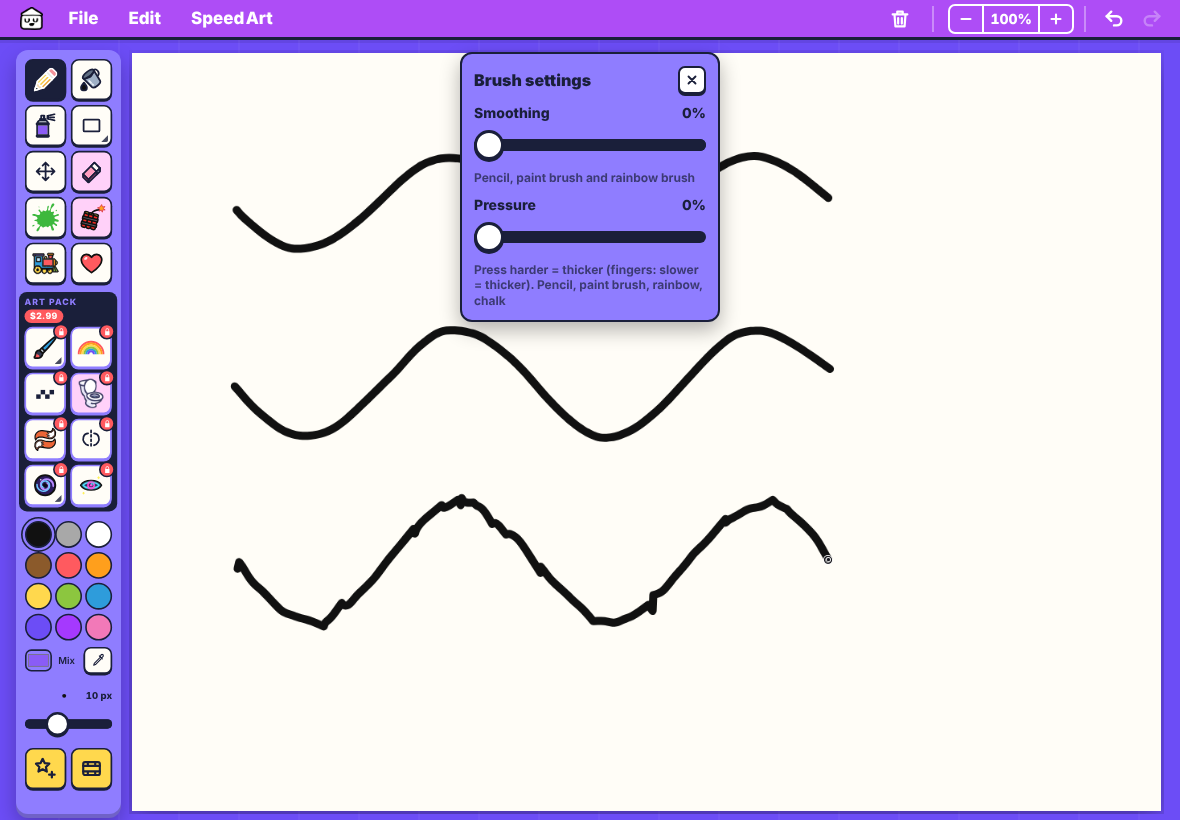
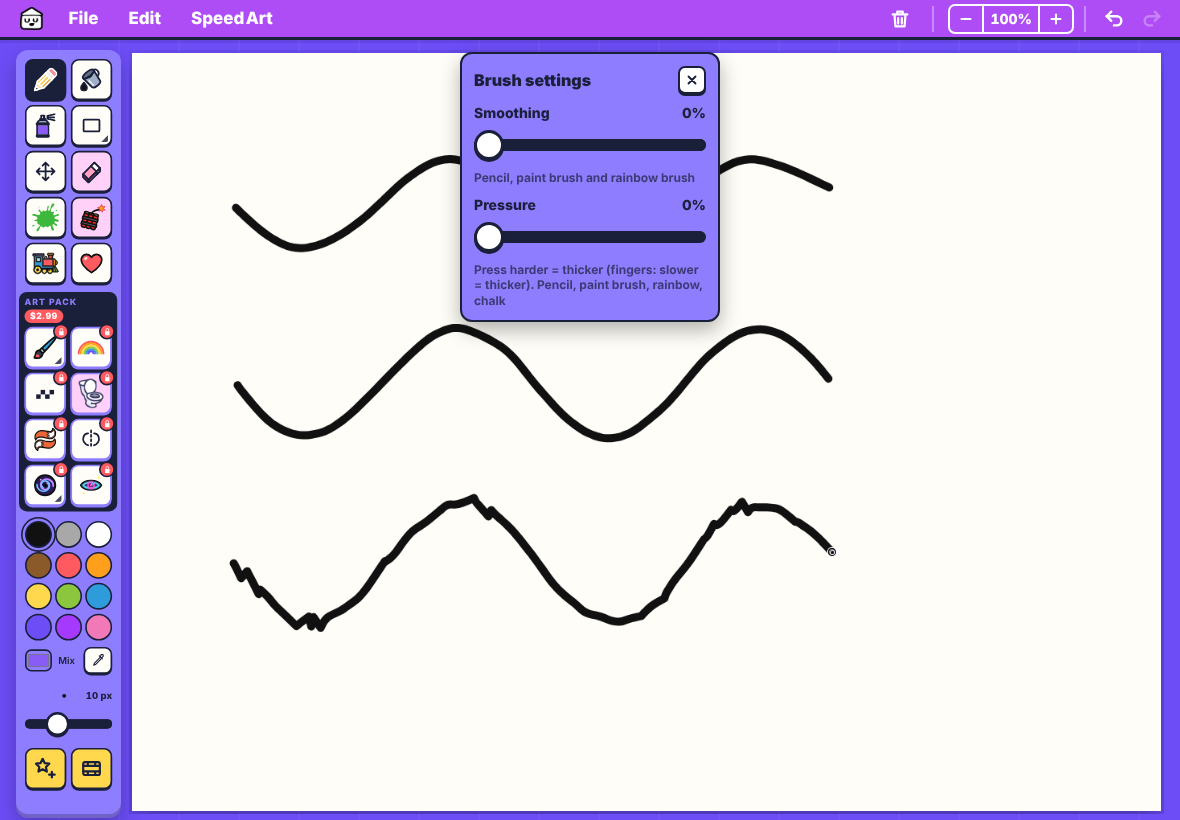
Paint brush: no lag on big brushes (settled part of the stroke is drawn once, only the tip redrawn)
Claude-Session: https://claude.ai/code/session_01QZ4DRegBmAdsTvPSvVEQXu

diff --git a/doodle-clubhouse-app/www/index.html b/doodle-clubhouse-app/www/index.html
@@ -4006,59 +4006,58 @@
   }
   const texK = [null, null, null];
   function brushTexDraw(g, pts, w, rb, ang, sc){
+    const D = brushDense(pts), n = D.length;
+    if (n < 2){ g.save(); g.lineCap = 'round'; pencilDraw(g, pts, w * .7, rb); g.restore(); return; }
+    brushNormals(D, w);
+    brushRange(g, D, 0, n - 1, w, ang, sc);
+  }
+  // draw the part of a paint brush stroke between points a and b of its centre line (so a long stroke can be drawn
+  // a piece at a time while you paint, and only the newest bit near the pen is redrawn: no lag on a big brush)
+  function brushRange(g, D, a, b, w, ang, sc){
+    if (b <= a) return;
     const cw = g.canvas.width, ch = g.canvas.height;
-    let x0 = 1e9, y0 = 1e9, x1 = -1e9, y1 = -1e9; for (const q of pts){ if (q.x < x0) x0 = q.x; if (q.y < y0) y0 = q.y; if (q.x > x1) x1 = q.x; if (q.y > y1) y1 = q.y; }
-    const pad = w * 1.8 + 6; x0 = Math.max(0, Math.floor(x0 - pad)); y0 = Math.max(0, Math.floor(y0 - pad)); x1 = Math.min(cw, Math.ceil(x1 + pad)); y1 = Math.min(ch, Math.ceil(y1 + pad));
+    let x0 = 1e9, y0 = 1e9, x1 = -1e9, y1 = -1e9; for (let i = a; i <= b; i++){ const q = D[i]; if (q.x < x0) x0 = q.x; if (q.y < y0) y0 = q.y; if (q.x > x1) x1 = q.x; if (q.y > y1) y1 = q.y; }
+    const pad = w * 1.4 + 6; x0 = Math.max(0, Math.floor(x0 - pad)); y0 = Math.max(0, Math.floor(y0 - pad)); x1 = Math.min(cw, Math.ceil(x1 + pad)); y1 = Math.min(ch, Math.ceil(y1 + pad));
     if (x1 <= x0 || y1 <= y0) return;
-    const layer = (i, width, kind, keep) => {
-      let k = texK[i]; if (!k || k.width !== cw || k.height !== ch){ k = texK[i] = mk(cw, ch); }
-      const kg = k.getContext('2d'); kg.setTransform(1, 0, 0, 1, 0, 0); kg.globalAlpha = 1; kg.globalCompositeOperation = 'source-over'; kg.clearRect(x0, y0, x1 - x0, y1 - y0);
-      kg.lineCap = 'round'; kg.lineJoin = 'round'; kg.strokeStyle = g.strokeStyle;
-      kg.save(); kg.beginPath(); kg.rect(x0, y0, x1 - x0, y1 - y0); kg.clip(); pencilDraw(kg, pts, width, rb); kg.restore();
-      kg.globalCompositeOperation = keep ? 'destination-in' : 'destination-out';
-      const pat = kg.createPattern(grainTile(kind), 'repeat');
-      // each stroke turns the bristle grain a random way, so lines never look stamped from the same pattern
-      try { pat.setTransform(new DOMMatrix().rotate(ang || 0).scale(sc || 1)); } catch {}
-      kg.fillStyle = pat; kg.fillRect(x0, y0, x1 - x0, y1 - y0);
-      kg.globalCompositeOperation = 'source-over';
-      return k;
-    };
-    // a real bristle brush: a full middle, then ~22 separate hairs running along the stroke.
-    // The outer hairs run dry and skip in random places, so the edge itself is ragged (not a clean stroke with marks on it).
     let k = texK[0]; if (!k || k.width !== cw || k.height !== ch){ k = texK[0] = mk(cw, ch); }
     const kg = k.getContext('2d'); kg.setTransform(1, 0, 0, 1, 0, 0); kg.globalAlpha = 1; kg.globalCompositeOperation = 'source-over'; kg.clearRect(x0, y0, x1 - x0, y1 - y0);
     kg.save(); kg.beginPath(); kg.rect(x0, y0, x1 - x0, y1 - y0); kg.clip();
     kg.lineCap = 'round'; kg.lineJoin = 'round'; kg.strokeStyle = g.strokeStyle;
+    // the centre band along the line, segment by segment (width follows pressure/taper)
+    const band = f => { let open = false, lw = -1;
+      for (let i = a; i < b; i++){ const p = D[i], q = D[i + 1], wd = Math.max(.6, Math.round(w * f * (p.k + q.k) / 2 * 2) / 2);
+        if (!open || wd !== lw){ if (open) kg.stroke(); kg.beginPath(); kg.lineWidth = wd; lw = wd; kg.moveTo(p.x, p.y); open = true; }
+        kg.lineTo(q.x, q.y); }
+      if (open) kg.stroke(); };
     // bigger brushes get a narrower solid middle and a wide fuzzy band of hairs reaching in toward it
     const big = Math.max(0, Math.min(1, (w - 20) / 60)), core = .7 - .42 * big, inner = core / 2;
-    pencilDraw(kg, pts, w * (core + .1 - big * .06), rb);
-    const D = brushDense(pts), n = D.length; if (n > 1) brushNormals(D, w);
-    if (n > 1){
-      const seed = Math.floor((ang || 0) * 977) + 13, scl = sc || 1;
-      const hash = (a, b) => { const v = Math.sin(a * 127.1 + b * 311.7 + seed * 74.7) * 43758.5453; return v - Math.floor(v); };
-      const NB = Math.max(18, Math.min(280, Math.round(w * (1.3 + big * .5))));   // more hairs on a bigger brush
-      for (let j = 0; j < NB; j++){
-        const r1 = hash(j, .5), r2 = hash(j, 1.5), r3 = hash(j, 2.5);
-        const o = (j / (NB - 1) - .5) * 1.16 + (r1 - .5) * (1.16 / NB), ao = Math.abs(o);   // where the hair sits across the brush
-        const d = Math.max(0, Math.min(1, (ao - inner) / (.58 - inner)));                  // 0 at the solid middle .. 1 at the outer edge
-        const hw = d > 0 ? (.7 + r2 * 1.8) * scl * (1 + big * .7) : w * (.04 + r2 * .05);  // hairs are fine (a few px even on a big brush)
-        const thr = d > 0 ? .1 + big * .12 + .72 * Math.pow(d, .9) : .03;                              // drier and more broken the further out
-        const lam = (2.5 + r3 * 10) * scl * (1 + big * 1.6);                                // short dry/wet patches: a fuzzy, broken edge
-        const noise = sx => { const u = sx / lam, i = Math.floor(u), f = u - i, e = f * f * (3 - 2 * f); return hash(j + 9, i) * (1 - e) + hash(j + 9, i + 1) * e; };
-        kg.globalAlpha = d > .15 ? .4 + hash(j, 3.5) * .6 * (1 - .35 * d) : 1;   // some hairs carry less paint
-        let open = false, lw = -1;
-        for (let i = 0; i < n - 1; i++){
-          const p = D[i], q = D[i + 1];
-          if (noise((p.s + q.s) / 2) < thr){ if (open){ kg.stroke(); open = false; } continue; }
-          const wd = Math.max(.5, Math.round((d > 0 ? hw * Math.min(1.3, (p.k + q.k) / 2) : hw * (p.k + q.k) / 2) * 2) / 2);
-          const ox1 = p.nx * o * w * p.k * p.f, oy1 = p.ny * o * w * p.k * p.f, ox2 = q.nx * o * w * q.k * q.f, oy2 = q.ny * o * w * q.k * q.f;
-          if (!open || wd !== lw){ if (open) kg.stroke(); kg.beginPath(); kg.lineWidth = wd; lw = wd; kg.moveTo(p.x + ox1, p.y + oy1); open = true; }
-          kg.lineTo(q.x + ox2, q.y + oy2);
-        }
-        if (open) kg.stroke();
+    band(core + .1 - big * .06);
+    // a real bristle brush: separate hairs running along the stroke; the further out, the drier and more broken they are
+    const seed = Math.floor((ang || 0) * 977) + 13, scl = sc || 1;
+    const hash = (u, v) => { const t = Math.sin(u * 127.1 + v * 311.7 + seed * 74.7) * 43758.5453; return t - Math.floor(t); };
+    const NB = Math.max(18, Math.min(280, Math.round(w * (1.3 + big * .5))));   // more hairs on a bigger brush
+    for (let j = 0; j < NB; j++){
+      const r1 = hash(j, .5), r2 = hash(j, 1.5), r3 = hash(j, 2.5);
+      const o = (j / (NB - 1) - .5) * 1.16 + (r1 - .5) * (1.16 / NB), ao = Math.abs(o);   // where the hair sits across the brush
+      const d = Math.max(0, Math.min(1, (ao - inner) / (.58 - inner)));                  // 0 at the solid middle .. 1 at the outer edge
+      if (d <= 0) continue;                                                              // covered by the middle anyway
+      const hw = (.7 + r2 * 1.8) * scl * (1 + big * .7);                                 // hairs are fine (a few px even on a big brush)
+      const thr = .1 + big * .12 + .72 * Math.pow(d, .9);                                // drier and more broken the further out
+      const lam = (2.5 + r3 * 10) * scl * (1 + big * 1.6);                               // short dry/wet patches: a fuzzy, broken edge
+      const noise = sx => { const u = sx / lam, i = Math.floor(u), f = u - i, e = f * f * (3 - 2 * f); return hash(j + 9, i) * (1 - e) + hash(j + 9, i + 1) * e; };
+      kg.globalAlpha = d > .15 ? .4 + hash(j, 3.5) * .6 * (1 - .35 * d) : 1;            // some hairs carry less paint
+      let open = false, lw = -1;
+      for (let i = a; i < b; i++){
+        const p = D[i], q = D[i + 1];
+        if (noise((p.s + q.s) / 2) < thr){ if (open){ kg.stroke(); open = false; } continue; }
+        const wd = Math.max(.5, Math.round(hw * Math.min(1.3, (p.k + q.k) / 2) * 2) / 2);
+        const ox1 = p.nx * o * w * p.k * p.f, oy1 = p.ny * o * w * p.k * p.f, ox2 = q.nx * o * w * q.k * q.f, oy2 = q.ny * o * w * q.k * q.f;
+        if (!open || wd !== lw){ if (open) kg.stroke(); kg.beginPath(); kg.lineWidth = wd; lw = wd; kg.moveTo(p.x + ox1, p.y + oy1); open = true; }
+        kg.lineTo(q.x + ox2, q.y + oy2);
       }
-      kg.globalAlpha = 1;
+      if (open) kg.stroke();
     }
+    kg.globalAlpha = 1;
     kg.restore();
     // a fine dry grain over it all
     kg.globalCompositeOperation = 'destination-out';
@@ -4066,8 +4065,30 @@
     try { pat.setTransform(new DOMMatrix().rotate(ang || 0).scale(sc || 1)); } catch {}
     kg.fillStyle = pat; kg.fillRect(x0, y0, x1 - x0, y1 - y0); kg.globalCompositeOperation = 'source-over';
     // the middle stays solid paint (70% of a small brush, about 30% of a big one; thinner when the line is thinner)
-    kg.save(); kg.beginPath(); kg.rect(x0, y0, x1 - x0, y1 - y0); kg.clip(); kg.lineCap = 'round'; kg.lineJoin = 'round'; kg.strokeStyle = g.strokeStyle; pencilDraw(kg, pts, w * core, rb); kg.restore();
-    g.save(); g.globalAlpha = 1; g.drawImage(k, x0, y0, x1 - x0, y1 - y0, x0, y0, x1 - x0, y1 - y0); g.restore();
+    kg.save(); kg.beginPath(); kg.rect(x0, y0, x1 - x0, y1 - y0); kg.clip(); kg.lineCap = 'round'; kg.lineJoin = 'round'; kg.strokeStyle = g.strokeStyle; band(core); kg.restore();
+    g.save(); g.globalAlpha = 1; g.globalCompositeOperation = 'source-over'; g.drawImage(k, x0, y0, x1 - x0, y1 - y0, x0, y0, x1 - x0, y1 - y0); g.restore();
+  }
+  // lifting the pen: the part already painted is reused, only the end (where it thins to a point) is drawn now
+  function brushCommit(st){
+    const w = st.base, D = brushDense(st.pts), n = D.length;
+    const L = n ? D[n - 1].s : 0, T = Math.max(10, w * 2.2);
+    if (!st.fz || !st.fi || n < 2 || L * .45 < T || st.fi >= n - 1){ brushTexDraw(ctx, st.pts, w, st.rb, st.ta); return; }
+    brushNormals(D, w);
+    ctx.save(); ctx.globalAlpha = 1; ctx.globalCompositeOperation = 'source-over'; ctx.drawImage(st.fz, 0, 0); ctx.restore();
+    brushRange(ctx, D, st.fi, n - 1, w, st.ta);
+  }
+  // while painting: the settled part of the stroke is drawn once into its own picture, then only the tip is redrawn
+  function brushLive(st){
+    const w = st.base, D = brushDense(brushTaper(st.pts, w, false)), n = D.length;
+    lctx.clearRect(0, 0, W, H); pencilInk(lctx);
+    if (n < 2){ brushTexDraw(lctx, st.pts, w, st.rb, st.ta); return; }
+    brushNormals(D, w);
+    if (!st.fz || st.fz.width !== W || st.fz.height !== H){ st.fz = mk(W, H); st.fi = 0; }
+    const lim = D[n - 1].s - (w * 2.6 + 40);   // the line's shape is settled this far behind the pen
+    let S = st.fi; while (S < n - 1 && D[S + 1].s < lim) S++;
+    if (S - st.fi >= 6){ const fg = st.fz.getContext('2d'); fg.strokeStyle = lctx.strokeStyle; brushRange(fg, D, st.fi, S, w, st.ta); st.fi = S; }
+    lctx.drawImage(st.fz, 0, 0);
+    brushRange(lctx, D, st.fi, n - 1, w, st.ta);
   }
   // the stroke's centre line as small even steps (same curve the pencil draws), with direction and distance along it
   // which way the brush is facing at each point, averaged over about half a brush width. Where you zig-zag or turn
@@ -4110,7 +4131,7 @@
   function pencilRender(){
     pencilRaf = 0; const st = pencilS; if (!st) return;
     if (live.width !== W || live.height !== H){ live.width = W; live.height = H; }
-    lctx.clearRect(0, 0, W, H); pencilInk(lctx); if (st.kind === 'brush') brushTexDraw(lctx, brushTaper(st.pts, st.base, false), st.base, st.rb, st.ta); else pencilDraw(lctx, st.pts, st.base, st.rb);
+    lctx.clearRect(0, 0, W, H); pencilInk(lctx); if (st.kind === 'brush') brushLive(st); else pencilDraw(lctx, st.pts, st.base, st.rb);
   }
   let pencilSnd = null, pencilT = 0, pencilDir = null;
   // pencil: a steady, even line. With the Apple Pencil (and "lock width" off) it varies only a little with pressure.
@@ -4239,7 +4260,7 @@
     st.pts.push({ x: st.raw.x, y: st.raw.y, k: kEnd });
     // the brush tapers off as you lift, like a real calligraphy stroke
     if (st.kind === 'brush') st.pts = brushTaper(st.pts, st.base, true);
-    pencilInk(ctx); (st.kind === 'brush' ? brushTexDraw : pencilDraw)(ctx, st.pts, st.base, st.rb, st.ta);
+    pencilInk(ctx); if (st.kind === 'brush') brushCommit(st); else pencilDraw(ctx, st.pts, st.base, st.rb);
     if (st.rb){ let d = 0; const sp = pencilSoften(st.pts); for (let i = 1; i < sp.length; i++) d += Math.hypot(sp[i].x - sp[i - 1].x, sp[i].y - sp[i - 1].y); hue = (st.rb.h0 + d * .6) % 360; }   // next stroke carries on through the rainbow
     // speed art redraws this exact curve (no masking), so crossings never show bits of the line early
     if (speedStroke){ const L = Math.max(W, H); speedStroke.vec = { pts: st.pts.map(q => [q.x / W, q.y / H, q.k || 1]), col: color, w: st.base / L, br: st.kind === 'brush' ? 1 : 0, ta: st.ta || 0, rb: st.rb ? { h0: st.rb.h0, rate: st.rb.rate * W } : null }; }

diff --git a/index.html b/index.html
@@ -4006,59 +4006,58 @@
   }
   const texK = [null, null, null];
   function brushTexDraw(g, pts, w, rb, ang, sc){
+    const D = brushDense(pts), n = D.length;
+    if (n < 2){ g.save(); g.lineCap = 'round'; pencilDraw(g, pts, w * .7, rb); g.restore(); return; }
+    brushNormals(D, w);
+    brushRange(g, D, 0, n - 1, w, ang, sc);
+  }
+  // draw the part of a paint brush stroke between points a and b of its centre line (so a long stroke can be drawn
+  // a piece at a time while you paint, and only the newest bit near the pen is redrawn: no lag on a big brush)
+  function brushRange(g, D, a, b, w, ang, sc){
+    if (b <= a) return;
     const cw = g.canvas.width, ch = g.canvas.height;
-    let x0 = 1e9, y0 = 1e9, x1 = -1e9, y1 = -1e9; for (const q of pts){ if (q.x < x0) x0 = q.x; if (q.y < y0) y0 = q.y; if (q.x > x1) x1 = q.x; if (q.y > y1) y1 = q.y; }
-    const pad = w * 1.8 + 6; x0 = Math.max(0, Math.floor(x0 - pad)); y0 = Math.max(0, Math.floor(y0 - pad)); x1 = Math.min(cw, Math.ceil(x1 + pad)); y1 = Math.min(ch, Math.ceil(y1 + pad));
+    let x0 = 1e9, y0 = 1e9, x1 = -1e9, y1 = -1e9; for (let i = a; i <= b; i++){ const q = D[i]; if (q.x < x0) x0 = q.x; if (q.y < y0) y0 = q.y; if (q.x > x1) x1 = q.x; if (q.y > y1) y1 = q.y; }
+    const pad = w * 1.4 + 6; x0 = Math.max(0, Math.floor(x0 - pad)); y0 = Math.max(0, Math.floor(y0 - pad)); x1 = Math.min(cw, Math.ceil(x1 + pad)); y1 = Math.min(ch, Math.ceil(y1 + pad));
     if (x1 <= x0 || y1 <= y0) return;
-    const layer = (i, width, kind, keep) => {
-      let k = texK[i]; if (!k || k.width !== cw || k.height !== ch){ k = texK[i] = mk(cw, ch); }
-      const kg = k.getContext('2d'); kg.setTransform(1, 0, 0, 1, 0, 0); kg.globalAlpha = 1; kg.globalCompositeOperation = 'source-over'; kg.clearRect(x0, y0, x1 - x0, y1 - y0);
-      kg.lineCap = 'round'; kg.lineJoin = 'round'; kg.strokeStyle = g.strokeStyle;
-      kg.save(); kg.beginPath(); kg.rect(x0, y0, x1 - x0, y1 - y0); kg.clip(); pencilDraw(kg, pts, width, rb); kg.restore();
-      kg.globalCompositeOperation = keep ? 'destination-in' : 'destination-out';
-      const pat = kg.createPattern(grainTile(kind), 'repeat');
-      // each stroke turns the bristle grain a random way, so lines never look stamped from the same pattern
-      try { pat.setTransform(new DOMMatrix().rotate(ang || 0).scale(sc || 1)); } catch {}
-      kg.fillStyle = pat; kg.fillRect(x0, y0, x1 - x0, y1 - y0);
-      kg.globalCompositeOperation = 'source-over';
-      return k;
-    };
-    // a real bristle brush: a full middle, then ~22 separate hairs running along the stroke.
-    // The outer hairs run dry and skip in random places, so the edge itself is ragged (not a clean stroke with marks on it).
     let k = texK[0]; if (!k || k.width !== cw || k.height !== ch){ k = texK[0] = mk(cw, ch); }
     const kg = k.getContext('2d'); kg.setTransform(1, 0, 0, 1, 0, 0); kg.globalAlpha = 1; kg.globalCompositeOperation = 'source-over'; kg.clearRect(x0, y0, x1 - x0, y1 - y0);
     kg.save(); kg.beginPath(); kg.rect(x0, y0, x1 - x0, y1 - y0); kg.clip();
     kg.lineCap = 'round'; kg.lineJoin = 'round'; kg.strokeStyle = g.strokeStyle;
+    // the centre band along the line, segment by segment (width follows pressure/taper)
+    const band = f => { let open = false, lw = -1;
+      for (let i = a; i < b; i++){ const p = D[i], q = D[i + 1], wd = Math.max(.6, Math.round(w * f * (p.k + q.k) / 2 * 2) / 2);
+        if (!open || wd !== lw){ if (open) kg.stroke(); kg.beginPath(); kg.lineWidth = wd; lw = wd; kg.moveTo(p.x, p.y); open = true; }
+        kg.lineTo(q.x, q.y); }
+      if (open) kg.stroke(); };
     // bigger brushes get a narrower solid middle and a wide fuzzy band of hairs reaching in toward it
     const big = Math.max(0, Math.min(1, (w - 20) / 60)), core = .7 - .42 * big, inner = core / 2;
-    pencilDraw(kg, pts, w * (core + .1 - big * .06), rb);
-    const D = brushDense(pts), n = D.length; if (n > 1) brushNormals(D, w);
-    if (n > 1){
-      const seed = Math.floor((ang || 0) * 977) + 13, scl = sc || 1;
-      const hash = (a, b) => { const v = Math.sin(a * 127.1 + b * 311.7 + seed * 74.7) * 43758.5453; return v - Math.floor(v); };
-      const NB = Math.max(18, Math.min(280, Math.round(w * (1.3 + big * .5))));   // more hairs on a bigger brush
-      for (let j = 0; j < NB; j++){
-        const r1 = hash(j, .5), r2 = hash(j, 1.5), r3 = hash(j, 2.5);
-        const o = (j / (NB - 1) - .5) * 1.16 + (r1 - .5) * (1.16 / NB), ao = Math.abs(o);   // where the hair sits across the brush
-        const d = Math.max(0, Math.min(1, (ao - inner) / (.58 - inner)));                  // 0 at the solid middle .. 1 at the outer edge
-        const hw = d > 0 ? (.7 + r2 * 1.8) * scl * (1 + big * .7) : w * (.04 + r2 * .05);  // hairs are fine (a few px even on a big brush)
-        const thr = d > 0 ? .1 + big * .12 + .72 * Math.pow(d, .9) : .03;                              // drier and more broken the further out
-        const lam = (2.5 + r3 * 10) * scl * (1 + big * 1.6);                                // short dry/wet patches: a fuzzy, broken edge
-        const noise = sx => { const u = sx / lam, i = Math.floor(u), f = u - i, e = f * f * (3 - 2 * f); return hash(j + 9, i) * (1 - e) + hash(j + 9, i + 1) * e; };
-        kg.globalAlpha = d > .15 ? .4 + hash(j, 3.5) * .6 * (1 - .35 * d) : 1;   // some hairs carry less paint
-        let open = false, lw = -1;
-        for (let i = 0; i < n - 1; i++){
-          const p = D[i], q = D[i + 1];
-          if (noise((p.s + q.s) / 2) < thr){ if (open){ kg.stroke(); open = false; } continue; }
-          const wd = Math.max(.5, Math.round((d > 0 ? hw * Math.min(1.3, (p.k + q.k) / 2) : hw * (p.k + q.k) / 2) * 2) / 2);
-          const ox1 = p.nx * o * w * p.k * p.f, oy1 = p.ny * o * w * p.k * p.f, ox2 = q.nx * o * w * q.k * q.f, oy2 = q.ny * o * w * q.k * q.f;
-          if (!open || wd !== lw){ if (open) kg.stroke(); kg.beginPath(); kg.lineWidth = wd; lw = wd; kg.moveTo(p.x + ox1, p.y + oy1); open = true; }
-          kg.lineTo(q.x + ox2, q.y + oy2);
-        }
-        if (open) kg.stroke();
+    band(core + .1 - big * .06);
+    // a real bristle brush: separate hairs running along the stroke; the further out, the drier and more broken they are
+    const seed = Math.floor((ang || 0) * 977) + 13, scl = sc || 1;
+    const hash = (u, v) => { const t = Math.sin(u * 127.1 + v * 311.7 + seed * 74.7) * 43758.5453; return t - Math.floor(t); };
+    const NB = Math.max(18, Math.min(280, Math.round(w * (1.3 + big * .5))));   // more hairs on a bigger brush
+    for (let j = 0; j < NB; j++){
+      const r1 = hash(j, .5), r2 = hash(j, 1.5), r3 = hash(j, 2.5);
+      const o = (j / (NB - 1) - .5) * 1.16 + (r1 - .5) * (1.16 / NB), ao = Math.abs(o);   // where the hair sits across the brush
+      const d = Math.max(0, Math.min(1, (ao - inner) / (.58 - inner)));                  // 0 at the solid middle .. 1 at the outer edge
+      if (d <= 0) continue;                                                              // covered by the middle anyway
+      const hw = (.7 + r2 * 1.8) * scl * (1 + big * .7);                                 // hairs are fine (a few px even on a big brush)
+      const thr = .1 + big * .12 + .72 * Math.pow(d, .9);                                // drier and more broken the further out
+      const lam = (2.5 + r3 * 10) * scl * (1 + big * 1.6);                               // short dry/wet patches: a fuzzy, broken edge
+      const noise = sx => { const u = sx / lam, i = Math.floor(u), f = u - i, e = f * f * (3 - 2 * f); return hash(j + 9, i) * (1 - e) + hash(j + 9, i + 1) * e; };
+      kg.globalAlpha = d > .15 ? .4 + hash(j, 3.5) * .6 * (1 - .35 * d) : 1;            // some hairs carry less paint
+      let open = false, lw = -1;
+      for (let i = a; i < b; i++){
+        const p = D[i], q = D[i + 1];
+        if (noise((p.s + q.s) / 2) < thr){ if (open){ kg.stroke(); open = false; } continue; }
+        const wd = Math.max(.5, Math.round(hw * Math.min(1.3, (p.k + q.k) / 2) * 2) / 2);
+        const ox1 = p.nx * o * w * p.k * p.f, oy1 = p.ny * o * w * p.k * p.f, ox2 = q.nx * o * w * q.k * q.f, oy2 = q.ny * o * w * q.k * q.f;
+        if (!open || wd !== lw){ if (open) kg.stroke(); kg.beginPath(); kg.lineWidth = wd; lw = wd; kg.moveTo(p.x + ox1, p.y + oy1); open = true; }
+        kg.lineTo(q.x + ox2, q.y + oy2);
       }
-      kg.globalAlpha = 1;
+      if (open) kg.stroke();
     }
+    kg.globalAlpha = 1;
     kg.restore();
     // a fine dry grain over it all
     kg.globalCompositeOperation = 'destination-out';
@@ -4066,8 +4065,30 @@
     try { pat.setTransform(new DOMMatrix().rotate(ang || 0).scale(sc || 1)); } catch {}
     kg.fillStyle = pat; kg.fillRect(x0, y0, x1 - x0, y1 - y0); kg.globalCompositeOperation = 'source-over';
     // the middle stays solid paint (70% of a small brush, about 30% of a big one; thinner when the line is thinner)
-    kg.save(); kg.beginPath(); kg.rect(x0, y0, x1 - x0, y1 - y0); kg.clip(); kg.lineCap = 'round'; kg.lineJoin = 'round'; kg.strokeStyle = g.strokeStyle; pencilDraw(kg, pts, w * core, rb); kg.restore();
-    g.save(); g.globalAlpha = 1; g.drawImage(k, x0, y0, x1 - x0, y1 - y0, x0, y0, x1 - x0, y1 - y0); g.restore();
+    kg.save(); kg.beginPath(); kg.rect(x0, y0, x1 - x0, y1 - y0); kg.clip(); kg.lineCap = 'round'; kg.lineJoin = 'round'; kg.strokeStyle = g.strokeStyle; band(core); kg.restore();
+    g.save(); g.globalAlpha = 1; g.globalCompositeOperation = 'source-over'; g.drawImage(k, x0, y0, x1 - x0, y1 - y0, x0, y0, x1 - x0, y1 - y0); g.restore();
+  }
+  // lifting the pen: the part already painted is reused, only the end (where it thins to a point) is drawn now
+  function brushCommit(st){
+    const w = st.base, D = brushDense(st.pts), n = D.length;
+    const L = n ? D[n - 1].s : 0, T = Math.max(10, w * 2.2);
+    if (!st.fz || !st.fi || n < 2 || L * .45 < T || st.fi >= n - 1){ brushTexDraw(ctx, st.pts, w, st.rb, st.ta); return; }
+    brushNormals(D, w);
+    ctx.save(); ctx.globalAlpha = 1; ctx.globalCompositeOperation = 'source-over'; ctx.drawImage(st.fz, 0, 0); ctx.restore();
+    brushRange(ctx, D, st.fi, n - 1, w, st.ta);
+  }
+  // while painting: the settled part of the stroke is drawn once into its own picture, then only the tip is redrawn
+  function brushLive(st){
+    const w = st.base, D = brushDense(brushTaper(st.pts, w, false)), n = D.length;
+    lctx.clearRect(0, 0, W, H); pencilInk(lctx);
+    if (n < 2){ brushTexDraw(lctx, st.pts, w, st.rb, st.ta); return; }
+    brushNormals(D, w);
+    if (!st.fz || st.fz.width !== W || st.fz.height !== H){ st.fz = mk(W, H); st.fi = 0; }
+    const lim = D[n - 1].s - (w * 2.6 + 40);   // the line's shape is settled this far behind the pen
+    let S = st.fi; while (S < n - 1 && D[S + 1].s < lim) S++;
+    if (S - st.fi >= 6){ const fg = st.fz.getContext('2d'); fg.strokeStyle = lctx.strokeStyle; brushRange(fg, D, st.fi, S, w, st.ta); st.fi = S; }
+    lctx.drawImage(st.fz, 0, 0);
+    brushRange(lctx, D, st.fi, n - 1, w, st.ta);
   }
   // the stroke's centre line as small even steps (same curve the pencil draws), with direction and distance along it
   // which way the brush is facing at each point, averaged over about half a brush width. Where you zig-zag or turn
@@ -4110,7 +4131,7 @@
   function pencilRender(){
     pencilRaf = 0; const st = pencilS; if (!st) return;
     if (live.width !== W || live.height !== H){ live.width = W; live.height = H; }
-    lctx.clearRect(0, 0, W, H); pencilInk(lctx); if (st.kind === 'brush') brushTexDraw(lctx, brushTaper(st.pts, st.base, false), st.base, st.rb, st.ta); else pencilDraw(lctx, st.pts, st.base, st.rb);
+    lctx.clearRect(0, 0, W, H); pencilInk(lctx); if (st.kind === 'brush') brushLive(st); else pencilDraw(lctx, st.pts, st.base, st.rb);
   }
   let pencilSnd = null, pencilT = 0, pencilDir = null;
   // pencil: a steady, even line. With the Apple Pencil (and "lock width" off) it varies only a little with pressure.
@@ -4239,7 +4260,7 @@
     st.pts.push({ x: st.raw.x, y: st.raw.y, k: kEnd });
     // the brush tapers off as you lift, like a real calligraphy stroke
     if (st.kind === 'brush') st.pts = brushTaper(st.pts, st.base, true);
-    pencilInk(ctx); (st.kind === 'brush' ? brushTexDraw : pencilDraw)(ctx, st.pts, st.base, st.rb, st.ta);
+    pencilInk(ctx); if (st.kind === 'brush') brushCommit(st); else pencilDraw(ctx, st.pts, st.base, st.rb);
     if (st.rb){ let d = 0; const sp = pencilSoften(st.pts); for (let i = 1; i < sp.length; i++) d += Math.hypot(sp[i].x - sp[i - 1].x, sp[i].y - sp[i - 1].y); hue = (st.rb.h0 + d * .6) % 360; }   // next stroke carries on through the rainbow
     // speed art redraws this exact curve (no masking), so crossings never show bits of the line early
     if (speedStroke){ const L = Math.max(W, H); speedStroke.vec = { pts: st.pts.map(q => [q.x / W, q.y / H, q.k || 1]), col: color, w: st.base / L, br: st.kind === 'brush' ? 1 : 0, ta: st.ta || 0, rb: st.rb ? { h0: st.rb.h0, rate: st.rb.rate * W } : null }; }
